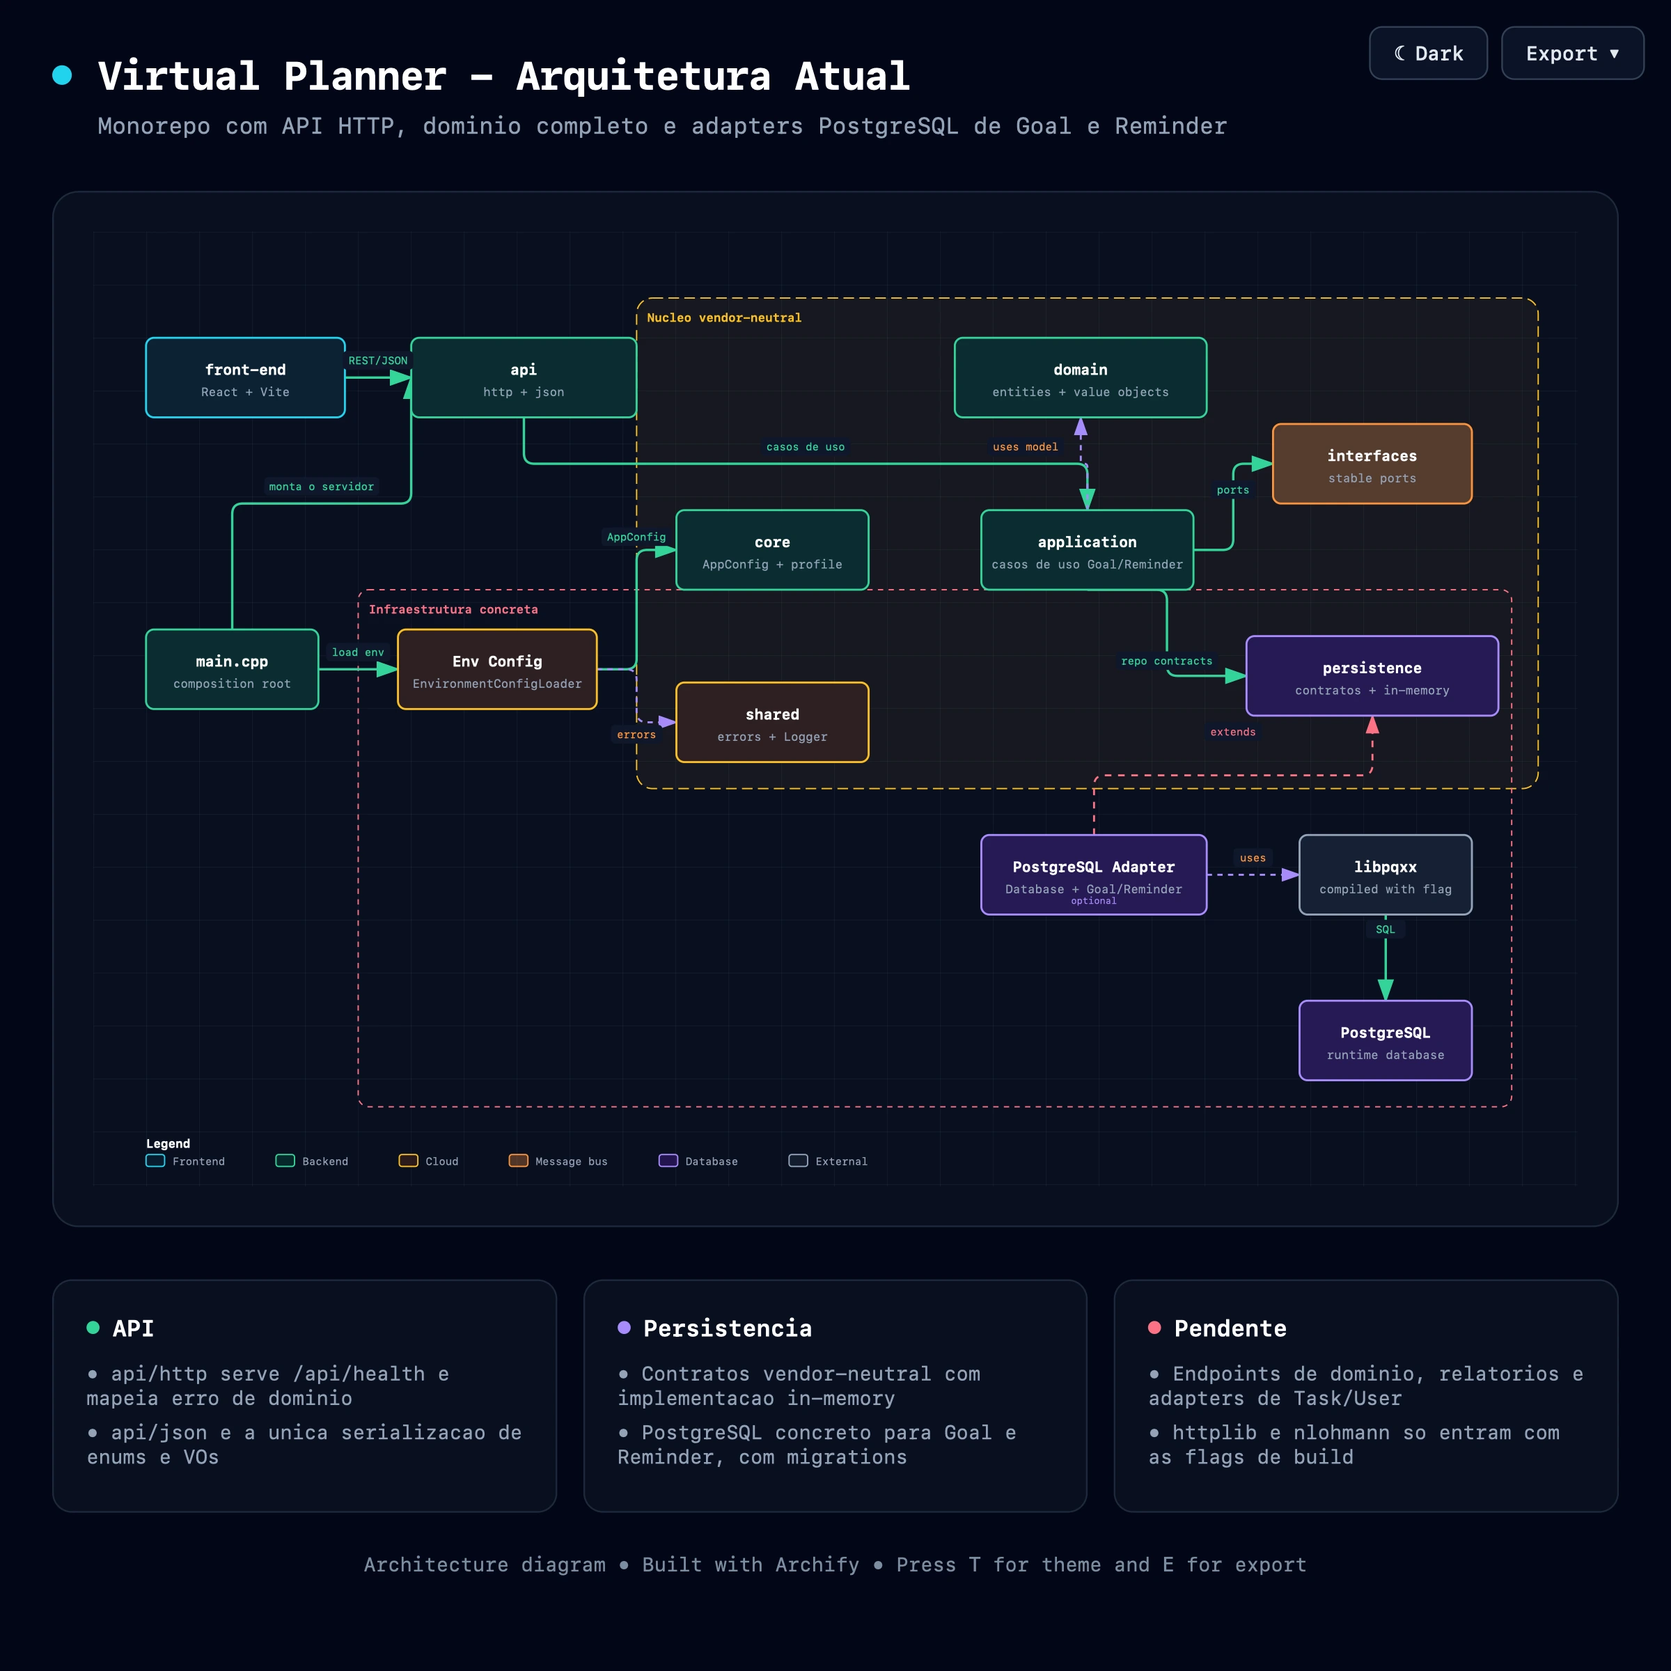
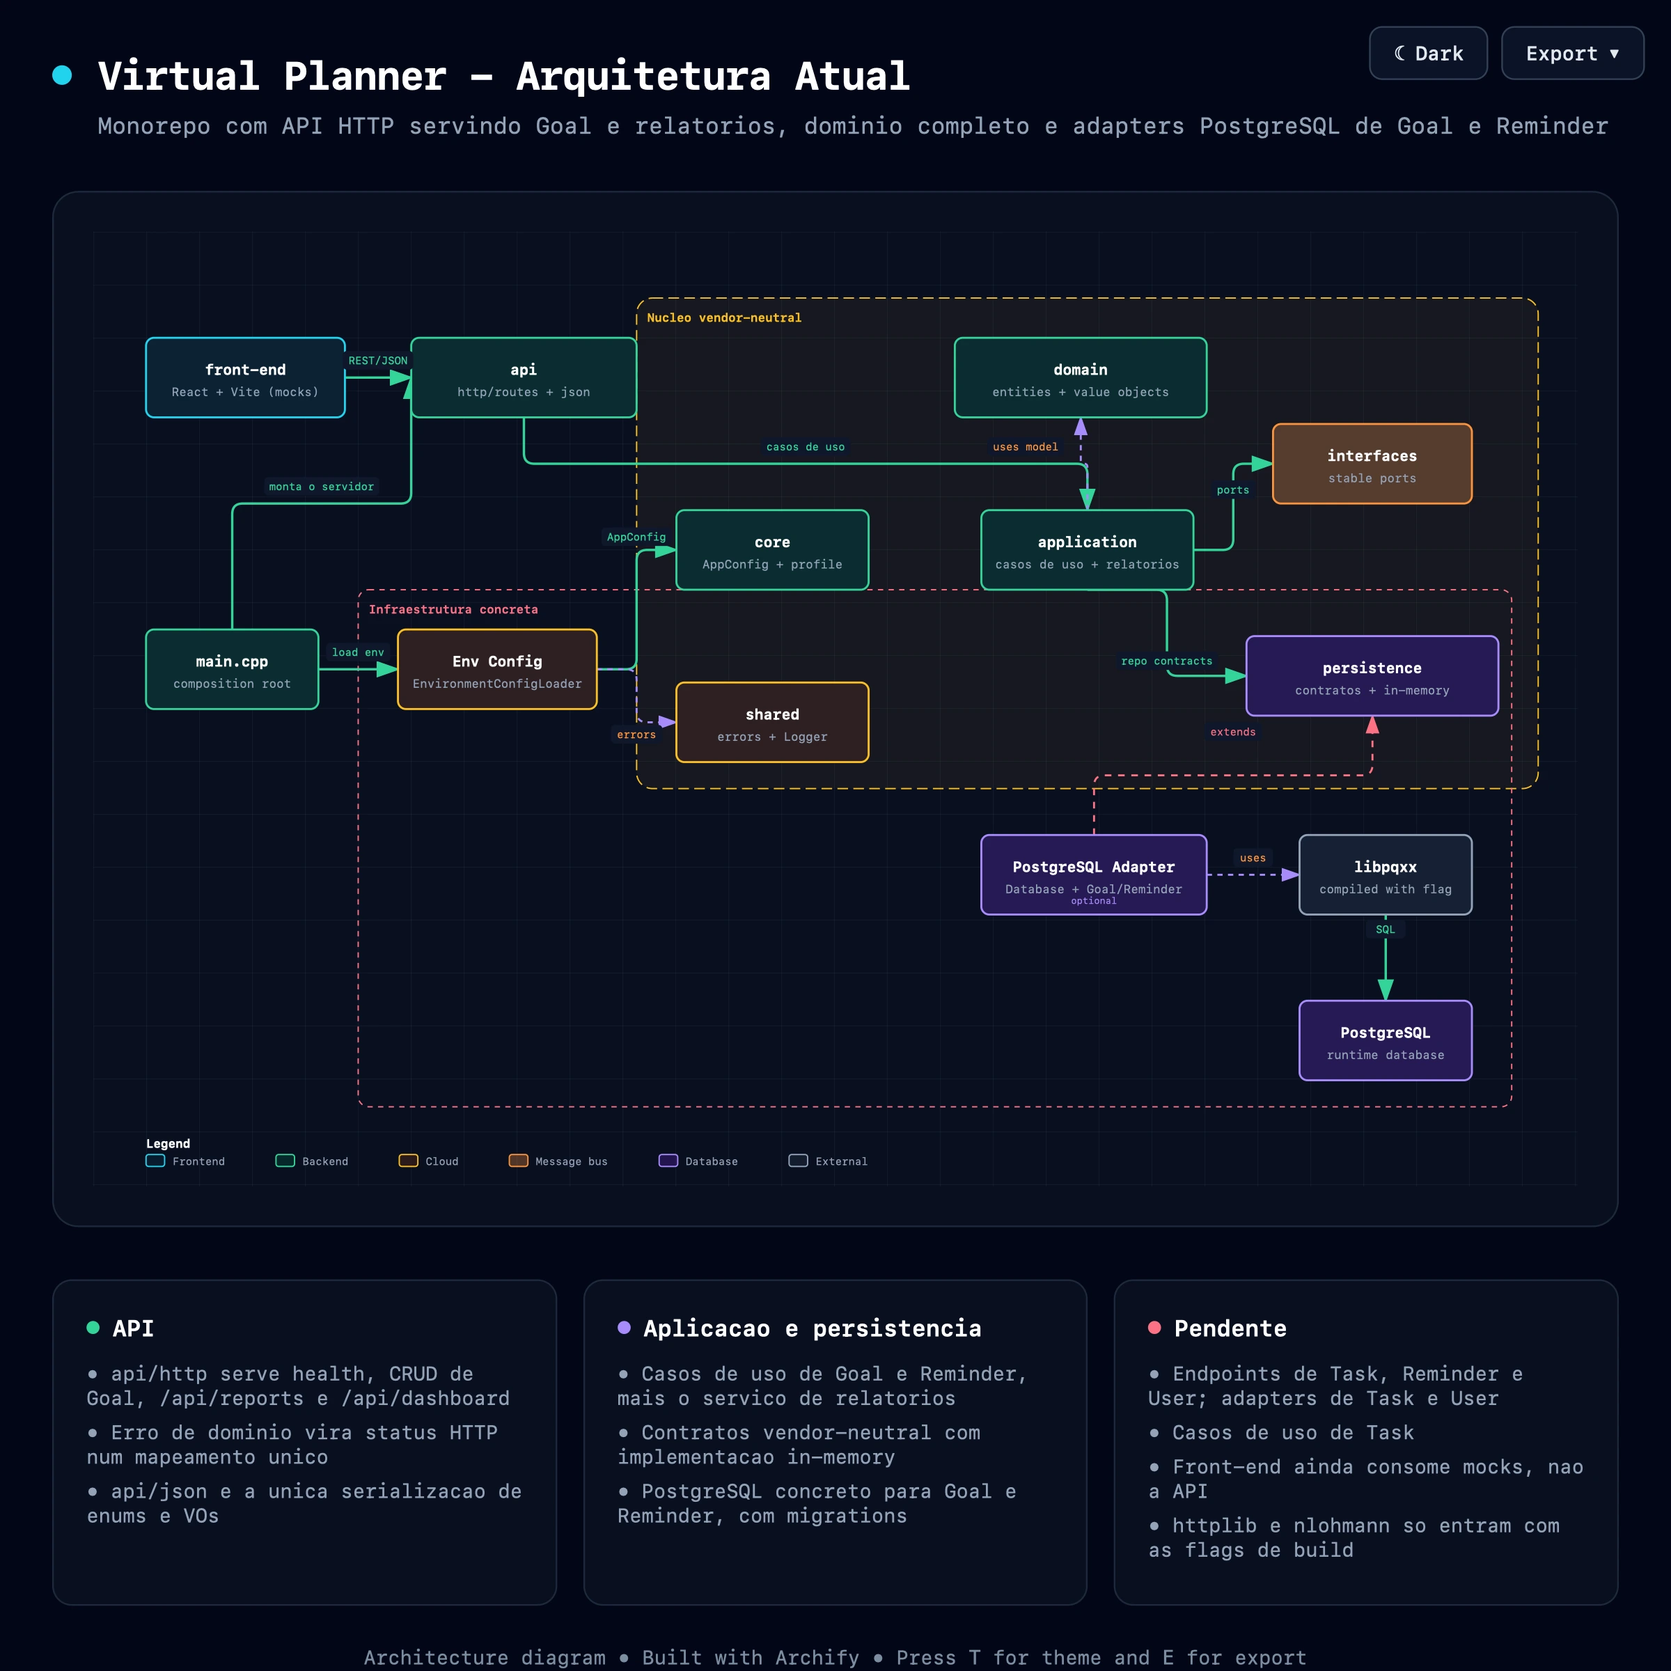
docs: atualiza README e diagrama para o estado atual do projeto
O README ainda descrevia o projeto como "estrutura inicial" e o diagrama
listava como pendente coisa ja entregue. Ambos passam a descrever o que
existe hoje.

Correcoes de fato, nao so redacao:

- A camada `api` nao aparecia na lista de camadas da arquitetura.
- `ReminderRepository` era descrito como "apenas contrato", mas ganhou
  adapter PostgreSQL na #97.
- A nota do Docker dizia que a base era Debian; e ubuntu:24.04 desde a #70.
- Faltava `docs/postgresql-integration-report.md` na lista de documentos.
- A arvore de diretorios nao tinha api/http/routes, application/reporting,
  infrastructure/logging, persistence/memory, back-end/cmake nem front-end.

Adicionado:

- Tabela dos endpoints que existem hoje, com a ressalva explicita de que
  Task, Reminder e User ainda nao tem endpoint.
- Build com VIRTUAL_PLANNER_WITH_COVERAGE.
- cpp-httplib, nlohmann/json e a stack do front-end em Tecnologias.
- Tabela de rotas do front-end, incluindo /reports.
- Nota de que Shift nao e campo de entidade: o turno e derivado de
  TimeSlot::start(), como decidido no contrato da P-63.

Diagrama: subtitulo, sublabels de api/application/frontend e os tres cards
refeitos. O card "Pendente" listava "endpoints de dominio e relatorios",
ambos entregues; passa a listar Task, Reminder e User.

Validacao: archify validate e check ok, 17 links internos do README
resolvem, webp regerado (2400x2400). Os parametros de /api/reports foram
conferidos no codigo: sao period e date, nao start_date/end_date.

diff --git a/docs/diagrams/current-architecture.html b/docs/diagrams/current-architecture.html
@@ -527,12 +527,12 @@
         <div class="pulse-dot"></div>
         <h1>Virtual Planner - Arquitetura Atual</h1>
       </div>
-      <p class="subtitle">Monorepo com API HTTP, dominio completo e adapters PostgreSQL de Goal e Reminder</p>
+      <p class="subtitle">Monorepo com API HTTP servindo Goal e relatorios, dominio completo e adapters PostgreSQL de Goal e Reminder</p>
     </div>
 
     <!-- Main Diagram -->
     <div class="diagram-container">
-      <svg viewBox="0 0 1120 720" role="img" aria-label="Virtual Planner - Arquitetura Atual — Monorepo com API HTTP, dominio completo e adapters PostgreSQL de Goal e Reminder (architecture diagram)">
+      <svg viewBox="0 0 1120 720" role="img" aria-label="Virtual Planner - Arquitetura Atual — Monorepo com API HTTP servindo Goal e relatorios, dominio completo e adapters PostgreSQL de Goal e Reminder (architecture diagram)">
         <!-- Definitions -->
         <defs>
           <marker id="arrowhead" markerWidth="10" markerHeight="7" refX="9" refY="3.5" orient="auto">
@@ -580,12 +580,12 @@
         <rect x="40" y="80" width="150" height="60" rx="6" class="c-mask"/>
         <rect x="40" y="80" width="150" height="60" rx="6" class="c-frontend" stroke-width="1.5"/>
         <text x="115" y="108" class="t-primary" font-size="11" font-weight="600" text-anchor="middle">front-end</text>
-        <text x="115" y="124" class="t-muted" font-size="9" text-anchor="middle">React + Vite</text>
+        <text x="115" y="124" class="t-muted" font-size="9" text-anchor="middle">React + Vite (mocks)</text>
 
         <rect x="240" y="80" width="170" height="60" rx="6" class="c-mask"/>
         <rect x="240" y="80" width="170" height="60" rx="6" class="c-backend" stroke-width="1.5"/>
         <text x="325" y="108" class="t-primary" font-size="11" font-weight="600" text-anchor="middle">api</text>
-        <text x="325" y="124" class="t-muted" font-size="9" text-anchor="middle">http + json</text>
+        <text x="325" y="124" class="t-muted" font-size="9" text-anchor="middle">http/routes + json</text>
 
         <rect x="40" y="300" width="130" height="60" rx="6" class="c-mask"/>
         <rect x="40" y="300" width="130" height="60" rx="6" class="c-backend" stroke-width="1.5"/>
@@ -615,7 +615,7 @@
         <rect x="670" y="210" width="160" height="60" rx="6" class="c-mask"/>
         <rect x="670" y="210" width="160" height="60" rx="6" class="c-backend" stroke-width="1.5"/>
         <text x="750" y="238" class="t-primary" font-size="11" font-weight="600" text-anchor="middle">application</text>
-        <text x="750" y="254" class="t-muted" font-size="9" text-anchor="middle">casos de uso Goal/Reminder</text>
+        <text x="750" y="254" class="t-muted" font-size="9" text-anchor="middle">casos de uso + relatorios</text>
 
         <rect x="890" y="145" width="150" height="60" rx="6" class="c-mask"/>
         <rect x="890" y="145" width="150" height="60" rx="6" class="c-messagebus" stroke-width="1.5"/>
@@ -694,7 +694,8 @@
           <h3>API</h3>
         </div>
         <ul>
-          <li>&bull; api/http serve /api/health e mapeia erro de dominio</li>
+          <li>&bull; api/http serve health, CRUD de Goal, /api/reports e /api/dashboard</li>
+          <li>&bull; Erro de dominio vira status HTTP num mapeamento unico</li>
           <li>&bull; api/json e a unica serializacao de enums e VOs</li>
         </ul>
       </div>
@@ -702,9 +703,10 @@
       <div class="card">
         <div class="card-header">
           <div class="card-dot violet"></div>
-          <h3>Persistencia</h3>
+          <h3>Aplicacao e persistencia</h3>
         </div>
         <ul>
+          <li>&bull; Casos de uso de Goal e Reminder, mais o servico de relatorios</li>
           <li>&bull; Contratos vendor-neutral com implementacao in-memory</li>
           <li>&bull; PostgreSQL concreto para Goal e Reminder, com migrations</li>
         </ul>
@@ -716,7 +718,9 @@
           <h3>Pendente</h3>
         </div>
         <ul>
-          <li>&bull; Endpoints de dominio, relatorios e adapters de Task/User</li>
+          <li>&bull; Endpoints de Task, Reminder e User; adapters de Task e User</li>
+          <li>&bull; Casos de uso de Task</li>
+          <li>&bull; Front-end ainda consome mocks, nao a API</li>
           <li>&bull; httplib e nlohmann so entram com as flags de build</li>
         </ul>
       </div>

diff --git a/README.md b/README.md
@@ -2,7 +2,9 @@
 
 Virtual Planner é um projeto acadêmico desenvolvido em C++20 para ajudar no planejamento pessoal.
 
-O projeto possui uma estrutura inicial para usuários, tarefas, metas e lembretes. Também oferece suporte opcional ao PostgreSQL.
+O domínio cobre usuários, tarefas, metas e lembretes. Sobre ele já existem casos de uso de Goal e Reminder, um serviço de relatórios, uma API HTTP que serve o CRUD de metas mais relatórios e dashboard, e adapters PostgreSQL para Goal e Reminder. O front-end em React consome mocks e ainda não chama a API.
+
+O build padrão continua sem rede e sem banco: HTTP, JSON, PostgreSQL e cobertura são opções desligadas por padrão.
 
 ## Objetivos
 
@@ -18,10 +20,12 @@ O projeto possui uma estrutura inicial para usuários, tarefas, metas e lembrete
 - **C++20**: linguagem do backend.
 - **CMake 3.20+**: build system, modularizado em `back-end/cmake/`.
 - **CTest**: execução da suíte de testes, sem framework externo.
+- **cpp-httplib** e **nlohmann/json**: servidor HTTP e serialização, baixados por `FetchContent` apenas com as flags de build ligadas.
+- **React 19 + TypeScript + Vite + Tailwind CSS v4**: front-end, em `front-end/`.
 - **PostgreSQL**: banco de dados, usado através de um adapter opcional.
 - **libpqxx**: cliente C++ do PostgreSQL, exigido apenas quando `VIRTUAL_PLANNER_WITH_POSTGRES=ON`.
 - **Docker Compose**: PostgreSQL local para desenvolvimento e testes de integração.
-- **GitHub Actions**: CI do backend, em `.github/workflows/backend.yml`.
+- **GitHub Actions**: CI do backend em `.github/workflows/backend.yml` (build padrão, JSON/HTTP, PostgreSQL e cobertura) e do front-end em `.github/workflows/frontend.yml`.
 
 ## Requisitos
 
@@ -68,6 +72,16 @@ cmake -S back-end -B back-end/build-postgres -DVIRTUAL_PLANNER_WITH_POSTGRES=ON 
   -DCMAKE_PREFIX_PATH="$(brew --prefix libpqxx);$(brew --prefix libpq)"
 ```
 
+### Com cobertura de testes
+
+```bash
+cmake -S back-end -B back-end/build-coverage -DVIRTUAL_PLANNER_WITH_COVERAGE=ON
+cmake --build back-end/build-coverage
+ctest --test-dir back-end/build-coverage --output-on-failure
+```
+
+O job `Cobertura de testes` do CI publica o percentual no resumo da execução e o relatório HTML como artefato.
+
 ## Execução
 
 Sem PostgreSQL:
@@ -89,7 +103,25 @@ VP_HTTP_HOST=127.0.0.1 VP_HTTP_PORT=8080 ./back-end/build-http/virtual_planner
 curl -s http://127.0.0.1:8080/api/health
 ```
 
-`VP_HTTP_HOST` e `VP_HTTP_PORT` são opcionais e caem em `0.0.0.0:8080`. A API sobe e responde mesmo sem PostgreSQL. O contrato das respostas está em [docs/api.md](docs/api.md).
+`VP_HTTP_HOST` e `VP_HTTP_PORT` são opcionais e caem em `0.0.0.0:8080`. A API sobe e responde mesmo sem PostgreSQL.
+
+Endpoints disponíveis hoje:
+
+| Método e rota | O que faz |
+| --- | --- |
+| `GET /api/health` | responde sempre 200, e informa se o banco está configurado e conectado |
+| `GET /api/goals?period=&date=` | lista metas do período civil (`weekly`, `monthly` ou `yearly`) |
+| `GET /api/goals/:id` | busca uma meta |
+| `POST /api/goals` | cria uma meta |
+| `PATCH /api/goals/:id` | atualização parcial |
+| `PATCH /api/goals/:id/status` | altera só o status |
+| `DELETE /api/goals/:id` | remove uma meta |
+| `GET /api/reports?period=&date=` | métricas do período civil, mesmos valores de `period` |
+| `GET /api/dashboard` | resumo do dia |
+
+Erro de domínio vira status HTTP num mapeamento único: `400` para validação, `404` para não encontrado, `409` para conflito e `500` genérico, sem vazar a mensagem interna. O contrato completo, com CORS e log, está em [docs/api.md](docs/api.md).
+
+Os endpoints de Task, Reminder e User ainda não existem.
 
 ## Configuração do PostgreSQL
 
@@ -146,7 +178,7 @@ A ordem é garantida por `depends_on` com condição: a API só sobe depois que 
 
 O healthcheck da API confere o campo `status` da resposta, não só o código HTTP — `/api/health` responde 200 mesmo com o banco fora do ar, então checar só o status HTTP não provaria integração.
 
-**Primeiro build demora** (alguns minutos): a imagem do backend compila o `libpqxx` 8.x a partir do código-fonte, porque o Debian empacota a 7.x e o adapter usa a API 8.x. Os builds seguintes reaproveitam a camada.
+**Primeiro build demora** (alguns minutos): a imagem do backend parte do `ubuntu:24.04` e compila o `libpqxx` 8.x a partir do código-fonte, porque a distribuição empacota a 7.x e o adapter usa a API 8.x. Os builds seguintes reaproveitam a camada.
 
 ### Só o banco
 
@@ -205,8 +237,12 @@ O teste de integração precisa das variáveis `POSTGRES_DB`, `POSTGRES_USER` e 
 │   ├── include/virtual_planner
 │   │   ├── api
 │   │   │   ├── http
+│   │   │   │   └── routes        # uma unidade por grupo de endpoints
 │   │   │   └── json
 │   │   ├── application
+│   │   │   ├── goal
+│   │   │   ├── reminder
+│   │   │   └── reporting
 │   │   ├── core
 │   │   ├── domain
 │   │   │   ├── entities
@@ -214,18 +250,28 @@ O teste de integração precisa das variáveis `POSTGRES_DB`, `POSTGRES_USER` e 
 │   │   │   └── value_objects
 │   │   ├── infrastructure
 │   │   │   ├── config
+│   │   │   ├── logging
 │   │   │   └── postgres
 │   │   ├── interfaces
 │   │   ├── persistence
+│   │   │   └── memory           # repositorios in-memory
 │   │   └── shared
 │   ├── src
-│   ├── tests
+│   ├── tests                    # unit/ e integration/
+│   ├── cmake                    # sources/ e tests/, um arquivo por modulo
 │   ├── migrations
+│   ├── Dockerfile
 │   ├── .env.example
 │   └── CMakeLists.txt
+├── front-end
+│   ├── src
+│   ├── Dockerfile
+│   ├── nginx.conf
+│   └── package.json
 ├── scripts
 │   └── db-migrate.sh
 ├── docs
+│   └── diagrams
 ├── .github/workflows
 ├── docker-compose.yml
 └── README.md
@@ -236,11 +282,13 @@ O teste de integração precisa das variáveis `POSTGRES_DB`, `POSTGRES_USER` e 
 O projeto está dividido em camadas:
 
 - `domain`: entidades e regras do sistema.
-- `application`: casos de uso do sistema. O módulo Goal já está implementado (criar, atualizar, remover, listar e alterar status de metas).
+- `application`: casos de uso e serviços. Goal está completo (criar, buscar, atualizar, remover, listar e alterar status), Reminder tem criação, atualização, remoção e listagem com recorrência, e `reporting` calcula as métricas do contrato da P-63. Task ainda não tem casos de uso.
+- `api`: fronteira HTTP e serialização JSON. Depende das camadas internas, mas nenhuma delas depende de `api` — `httplib` e `nlohmann` só aparecem aqui.
 - `interfaces`: contratos usados pelas diferentes partes do projeto.
 - `persistence`: contratos para banco de dados e repositórios.
 - `infrastructure`: implementações externas, como configuração e PostgreSQL.
 - `core` e `shared`: configurações, erros e recursos compartilhados.
+- `infrastructure/logging`: `ConsoleLogger`, adapter da porta `Logger`.
 - `main.cpp`: inicia e configura a aplicação.
 
 O código principal não depende diretamente do PostgreSQL. A implementação do banco fica em `infrastructure/postgres`.
@@ -256,11 +304,11 @@ Outros arquivos do diagrama:
 
 - `persistence::Database`: abstração de ciclo de vida de persistência, independente de fornecedor.
 - `persistence::Transaction`: contrato mínimo para `commit()` e `rollback()`.
-- `persistence::*Repository`: contratos de repositório para as entidades de domínio. `GoalRepository` já possui implementação concreta em PostgreSQL; `TaskRepository`, `ReminderRepository` e `UserRepository` ainda são apenas contratos.
+- `persistence::*Repository`: contratos de repositório para as entidades de domínio. Todos têm implementação in-memory em `persistence/memory`. `GoalRepository` e `ReminderRepository` já possuem adapter PostgreSQL; `TaskRepository` e `UserRepository` seguem só com in-memory.
 - `infrastructure::postgres::PostgresConfig`: configuração externa da conexão PostgreSQL.
 - `infrastructure::postgres::PostgresDatabase`: adapter concreto baseado em `libpqxx`, compilado apenas com `VIRTUAL_PLANNER_WITH_POSTGRES=ON`.
 - `infrastructure::postgres::PostgresTransaction`: transação PostgreSQL com rollback automático no destrutor se não houver `commit()`.
-- `infrastructure::postgres::PostgresGoalRepository`: implementação concreta de `persistence::GoalRepository` sobre `libpqxx`.
+- `infrastructure::postgres::PostgresGoalRepository` e `PostgresReminderRepository`: implementações concretas sobre `libpqxx`.
 
 ## Domínio Inicial
 
@@ -273,8 +321,10 @@ O projeto possui as seguintes entidades:
 
 Também possui tipos auxiliares para datas, horários, categorias, prioridades e status:
 
-- Value objects: `Date` e `TimeSlot`.
+- Value objects: `Date` e `TimeSlot`, com contrato público congelado pela P-61.
 - Enums: `Category`, `Priority`, `TaskStatus`, `GoalStatus`, `GoalPeriod`, `ReminderType`, `ReminderRecurrence` e `Shift`.
+
+`Shift` não é campo de nenhuma entidade: o turno de uma tarefa é **derivado** de `TimeSlot::start()`, conforme decidido em [`docs/reporting-metrics-contract.md`](docs/reporting-metrics-contract.md).
 
 ## Documentação
 
@@ -285,6 +335,7 @@ Documentos adicionais estão disponíveis na pasta `docs/`:
 - [`docs/conventions.md`](docs/conventions.md): convenções de código, testes e build.
 - [`docs/persistence-architecture.md`](docs/persistence-architecture.md): camada de persistência.
 - [`docs/postgresql.md`](docs/postgresql.md): uso do PostgreSQL.
+- [`docs/postgresql-integration-report.md`](docs/postgresql-integration-report.md): relatório da integração com PostgreSQL.
 - [`docs/api.md`](docs/api.md): contrato JSON, endpoints, erros, CORS e log.
 - [`docs/date-timeslot-contract.md`](docs/date-timeslot-contract.md): contrato público congelado de `Date` e `TimeSlot`.
 - [`docs/reporting-metrics-data.md`](docs/reporting-metrics-data.md): dados necessários e casos de teste das métricas de relatório.
@@ -296,6 +347,18 @@ O planejamento e o estado das tarefas ficam nas issues do GitHub, não neste arq
 ## 🖥 Front-end (Interface do Usuário)
 
 O front-end do Virtual Planner foi construído com **React 19, TypeScript, Vite e Tailwind CSS v4**. Hoje ele opera de forma independente do back-end: consome mocks em `front-end/src/mocks`, não a API.
+
+As rotas ficam em `src/App.tsx`, dentro de um `AppShell` com sidebar e alternância de tema:
+
+| Rota | Tela |
+| --- | --- |
+| `/` | dashboard |
+| `/tasks`, `/tasks/new`, `/tasks/:id/edit` | tarefas |
+| `/planner` | quadro semanal |
+| `/goals`, `/goals/new`, `/goals/:id/edit` | metas |
+| `/reminders`, `/reminders/new`, `/reminders/:id/edit` | lembretes |
+| `/reports` | painel analítico |
+| `/profile`, `/settings` | perfil e ajustes |
 
 ### Como rodar o front-end localmente
 
